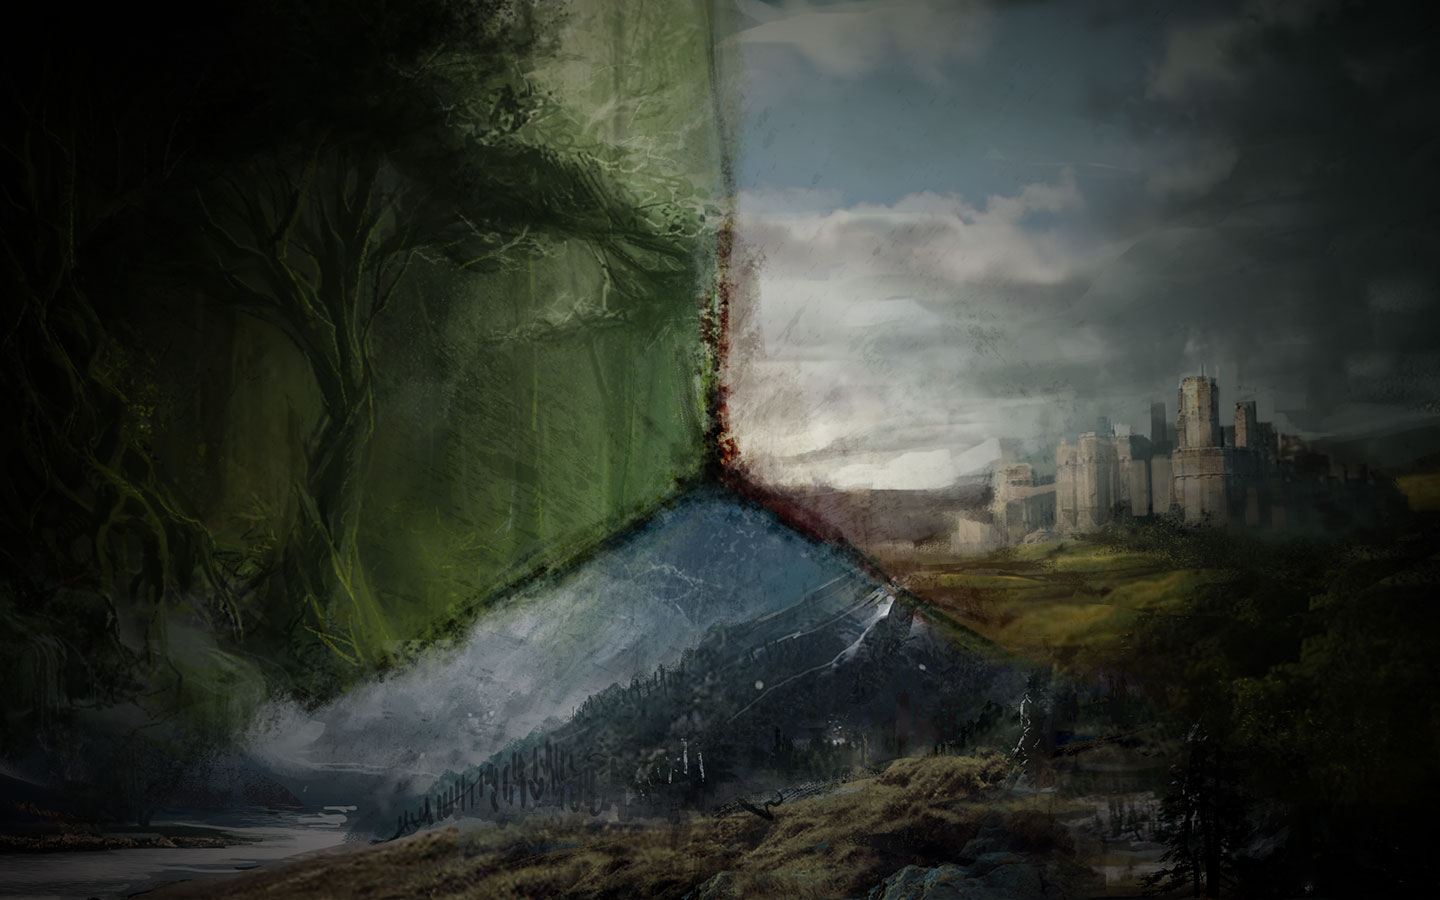
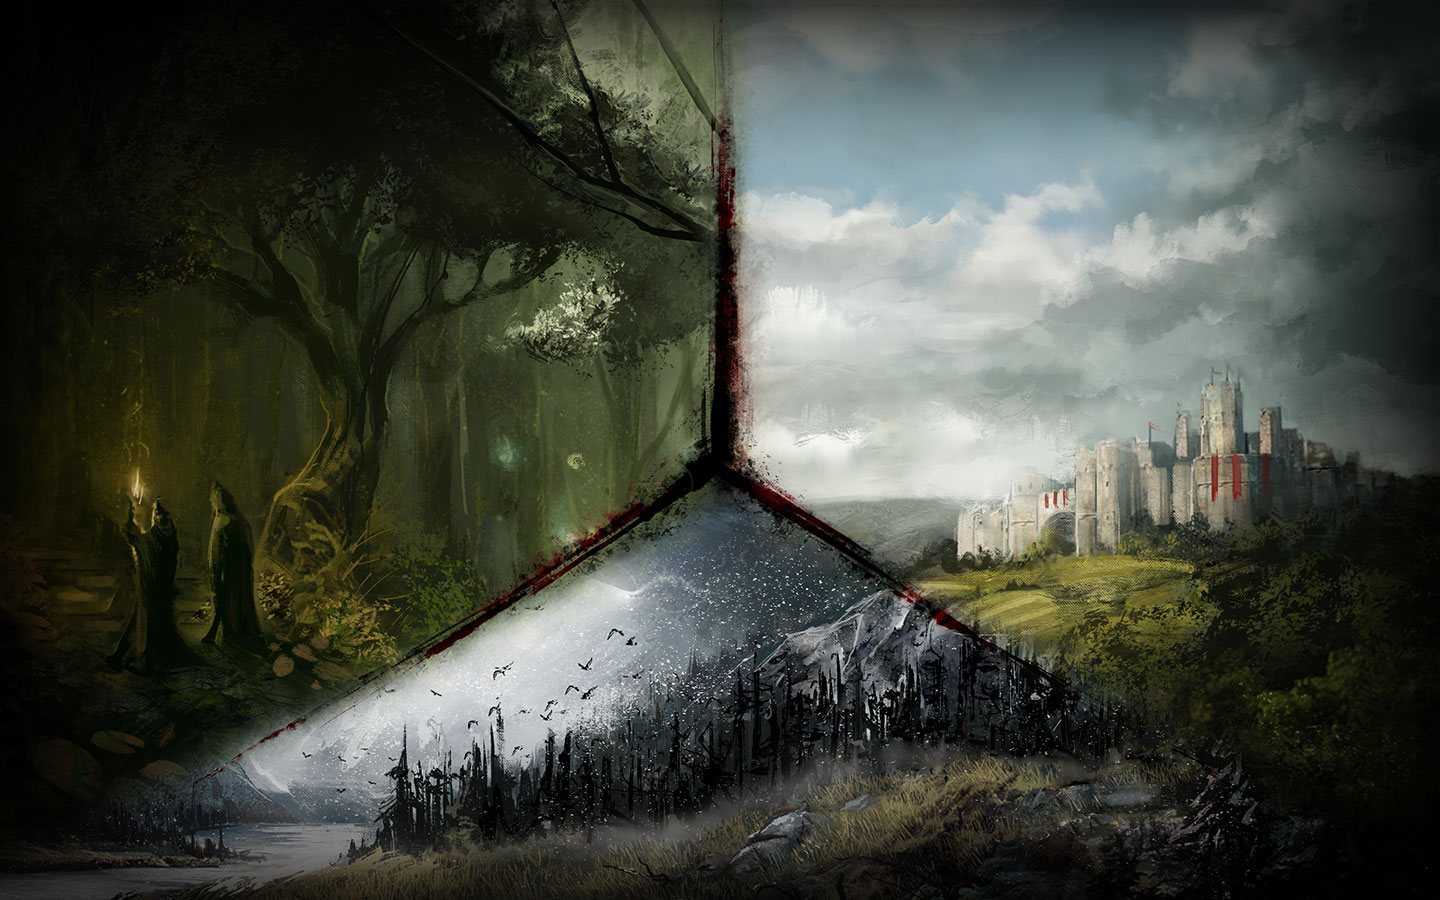
update chat and realm bgs

diff --git a/chat/chat.ts b/chat/chat.ts
@@ -10,6 +10,7 @@
 module Chat {
 
     cu.OnInitialized(() => {
-        ChatLib.initChat([cu.GLOBAL_CHATROOM_NAME, cu.COMBAT_CHATROOM_NAME], false);
+        ChatLib.initChat([cu.GLOBAL_CHATROOM_NAME, cu.COMBAT_CHATROOM_NAME], true);
+        ChatLib.connect(cuAPI.loginToken);
     });
 }
